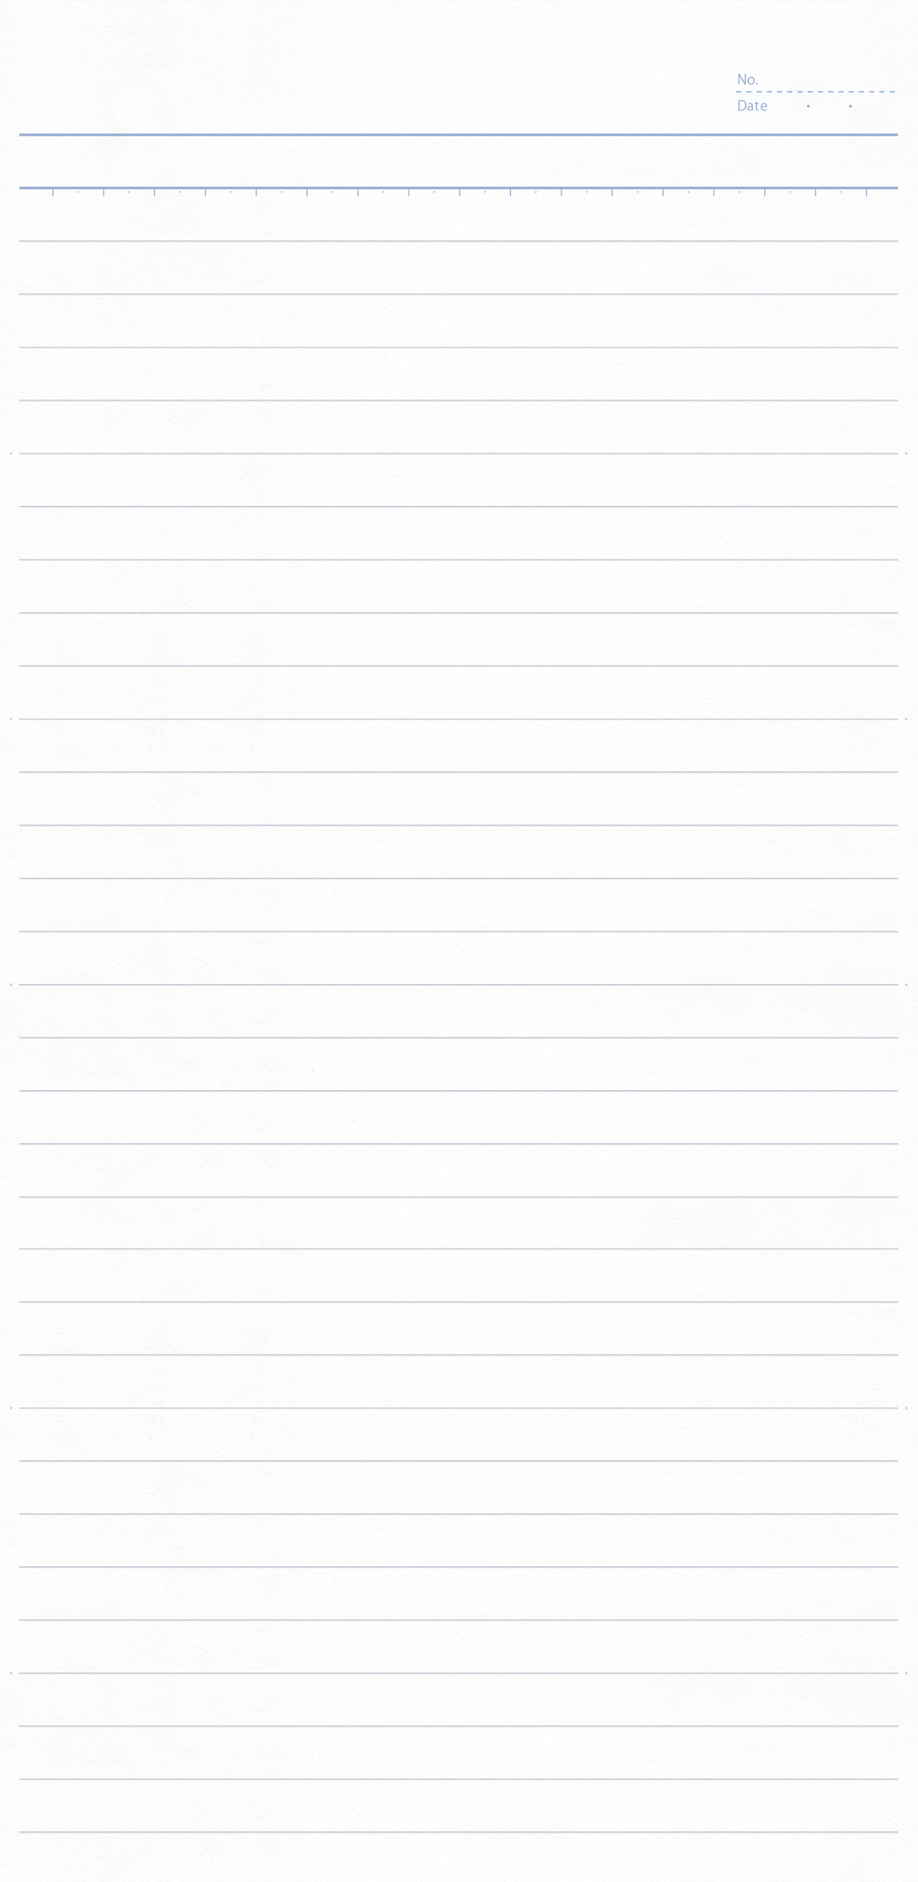
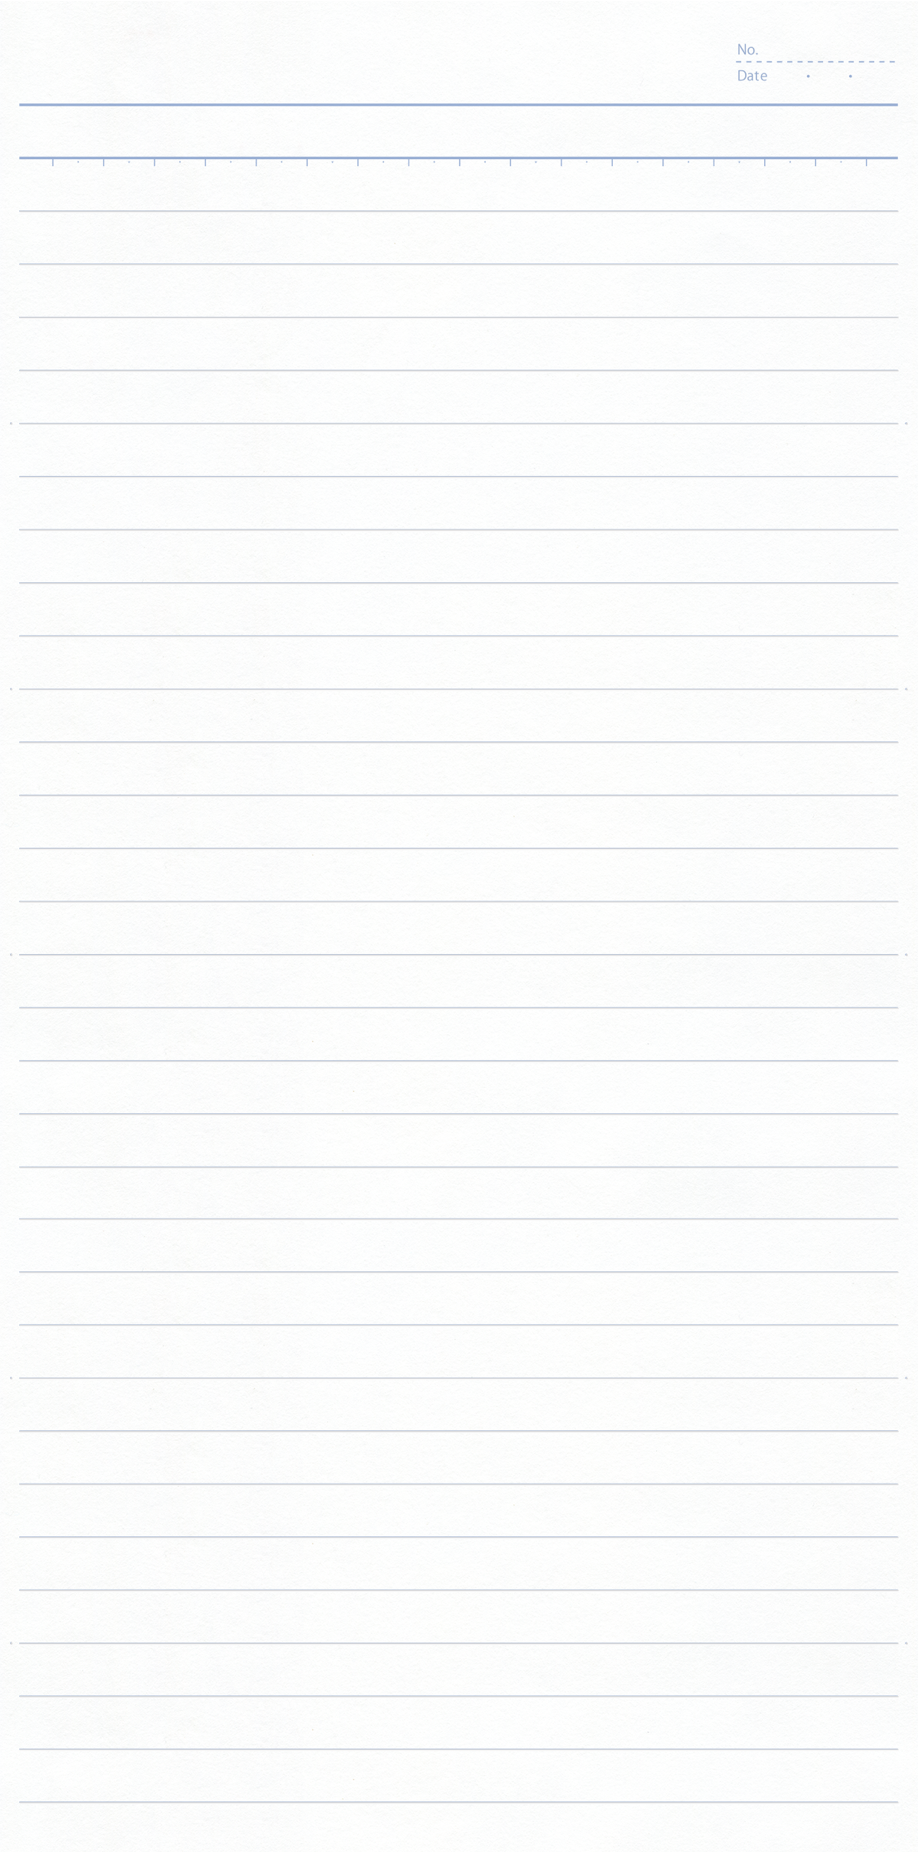
背景画像調整

diff --git a/src/screens/NotebookScreen.tsx b/src/screens/NotebookScreen.tsx
@@ -115,34 +115,12 @@ const NotebookScreen: React.FC<Props> = ({ route }) => {
       >
         <View style={styles.backgroundWrapper}>
           <ImageBackground
-            source={require('../../assets/images/title.png')}
+            source={require('../../assets/images/note.png')}
             style={styles.background}
             resizeMode="contain"
           >
-            <View style={styles.container}>
+            <View style={[styles.container, { backgroundColor: 'transparent'}]}>
               <Text style={styles.title}>{book.title}</Text>
-
-              <View style={styles.buttonRow}>
-                <View style={editing ? styles.editButtonWrapper : undefined}>
-                  <Button
-                    title={editing ? '編集終了' : '編集する'}
-                    onPress={() => setEditing(!editing)}
-                  />
-                </View>
-                {editing && (
-                  <Button
-                    title="保存"
-                    onPress={() => {
-                      dispatch({
-                        type: 'UPDATE_CONTENT',
-                        bookId: book.id,
-                        content: pages,
-                      });
-                      setEditing(false);
-                    }}
-                  />
-                )}
-              </View>
 
               {/* スライダー部分 */}
               <View style={{ flex: 1, height: 400, marginBottom: 100 }}>
